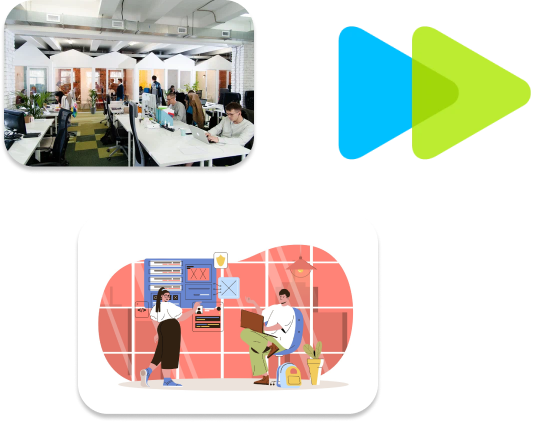
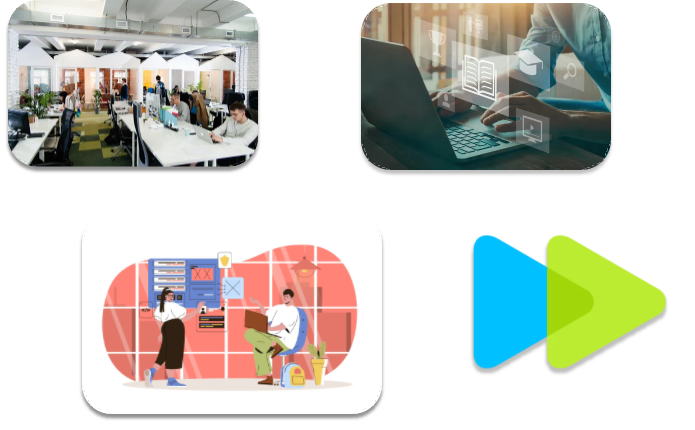
Корректировка слайдов в блоке Парнеры

diff --git a/src/components/Partners.tsx b/src/components/Partners.tsx
@@ -12,19 +12,14 @@ import { DividerSolid } from "@/widgets/DividerSolid";
 
 import VkLogo from "../assets/vk.svg";
 import WhatsAppLogo from "../assets/whatsapp.svg";
+import ViberLogo from "../assets/viber.svg";
 import InstLogo from "../assets/inst.svg";
 import TgLogo from "../assets/tg.svg";
 import { Link } from "react-router-dom";
-import { DividerDots } from "@/widgets/DividerDots";
 
 export const Partners = () => {
   return (
     <section className="mt-10">
-      <div className="flex flex-col items-center mt-12 mb-10">
-        <DividerDots className="mb-10" />
-        <p className="text-[48px] leading-normal">Наши партнеры</p>
-        <DividerSolid className="w-[130px]" />
-      </div>
       <Carousel
         responsive={{
           desktop: {
@@ -68,29 +63,50 @@ export const Partners = () => {
         {partnersInfo.map((el) => {
           return (
             <div
-              className="flex justify-between text-right px-20 py-5 rounded-2xl"
+              className="flex justify-between text-right px-10 py-5 rounded-2xl"
               style={{
                 background: `url(${bg})`,
                 backgroundSize: "100% 100%",
-                height: "530px",
+                height: "560px",
               }}
             >
               <div>
                 <img className="w-[600px]" src={el.img} />
               </div>
-              <div className="flex flex-col items-end w-[450px]">
+              <div className="flex flex-col items-end w-[500px]">
+                <div className="flex flex-col items-end">
+                  <p className="text-[48px] leading-normal">Наши партнеры</p>
+                  <DividerSolid className="w-[130px]" />
+                </div>
                 <img src={el.logo} />
-                <DividerSolid className="my-10" />
-                <p className="text-[24px]">{el.title}</p>
-                <p className="mt-5">{el.desc}</p>
+                <p className="text-[26px] font-medium">{el.title}</p>
+                <p className="text-[24px] font-normal mt-5">{el.desc}</p>
                 <p className="text-[24px] cursor-pointer mt-5">{el.mail}</p>
-                <div className="flex justify-end gap-4 mt-5">
+                <div className="flex justify-end items-center gap-4 mt-5">
+                  <Link to={el.site} target="_blank">
+                    <button
+                      className="py-2 px-4 bg-gradient-to-r rounded-lg text-white"
+                      style={{
+                        background:
+                          "linear-gradient(0.25turn, #97794D, #E3CB8F)",
+                      }}
+                    >
+                      Узнать подробнее
+                    </button>
+                  </Link>
                   <Link to={el.socials.vk} target="_blank">
                     <VkLogo className="cursor-pointer" />
                   </Link>
-                  <Link to={el.socials.wa} target="_blank">
-                    <WhatsAppLogo className="cursor-pointer" />
-                  </Link>
+                  {el.socials.wa && (
+                    <Link to={el.socials.wa} target="_blank">
+                      <WhatsAppLogo className="cursor-pointer" />
+                    </Link>
+                  )}
+                  {el.socials.viber && (
+                    <Link to={el.socials.viber} target="_blank">
+                      <ViberLogo className="cursor-pointer" />
+                    </Link>
+                  )}
                   <Link to={el.socials.inst} target="_blank">
                     <InstLogo className="cursor-pointer" />
                   </Link>
@@ -98,16 +114,6 @@ export const Partners = () => {
                     <TgLogo className="cursor-pointer" />
                   </Link>
                 </div>
-                <Link to={el.site} target="_blank">
-                  <button
-                    className="py-2 px-4 bg-gradient-to-r rounded-lg text-white mt-4"
-                    style={{
-                      background: "linear-gradient(0.25turn, #97794D, #E3CB8F)",
-                    }}
-                  >
-                    Узнать подробнее
-                  </button>
-                </Link>
               </div>
             </div>
           );
@@ -129,9 +135,9 @@ const partnersInfo = [
     socials: {
       vk: "https://vk.com/it.incubator?roistat_visit=244395",
       wa: "https://api.whatsapp.com/send/?phone=375445657493&text&type=phone_number&app_absent=0&roistat_visit=245016",
+      viber: "viber://chat?number=%2B375291341548",
       inst: "https://www.instagram.com/it.incubator?roistat_visit=245016",
       tg: "https://t.me/ITIncubatorSandbox?roistat_visit=245016",
-      viber: "viber://chat?number=%2B375291341548",
     },
   },
   {
@@ -154,12 +160,11 @@ const partnersInfo = [
     img: pranaImg,
     logo: pranaLogo,
     title: "Центр психологии PRANA",
-    desc: "Семейная, кризисная психология, психосоматика, псхоанализ, коучинг",
+    desc: "Семейная, кризисная психология, психосоматика, психоанализ, коучинг. Быстрая помощь в решении проблемных ситуаций.Различные виды консультаций.",
     mail: "prana.vedic.center@gmail.com",
     site: "https://prana-psychology.ru/",
     socials: {
       vk: "https://vk.com/prana_vedic_center",
-      wa: "https://wa.me/79082227821",
       inst: "https://instagram.com/prana_vedic_centr?igshid=MzRlODBiNWFlZA==",
       tg: "https://tg.me",
     },
